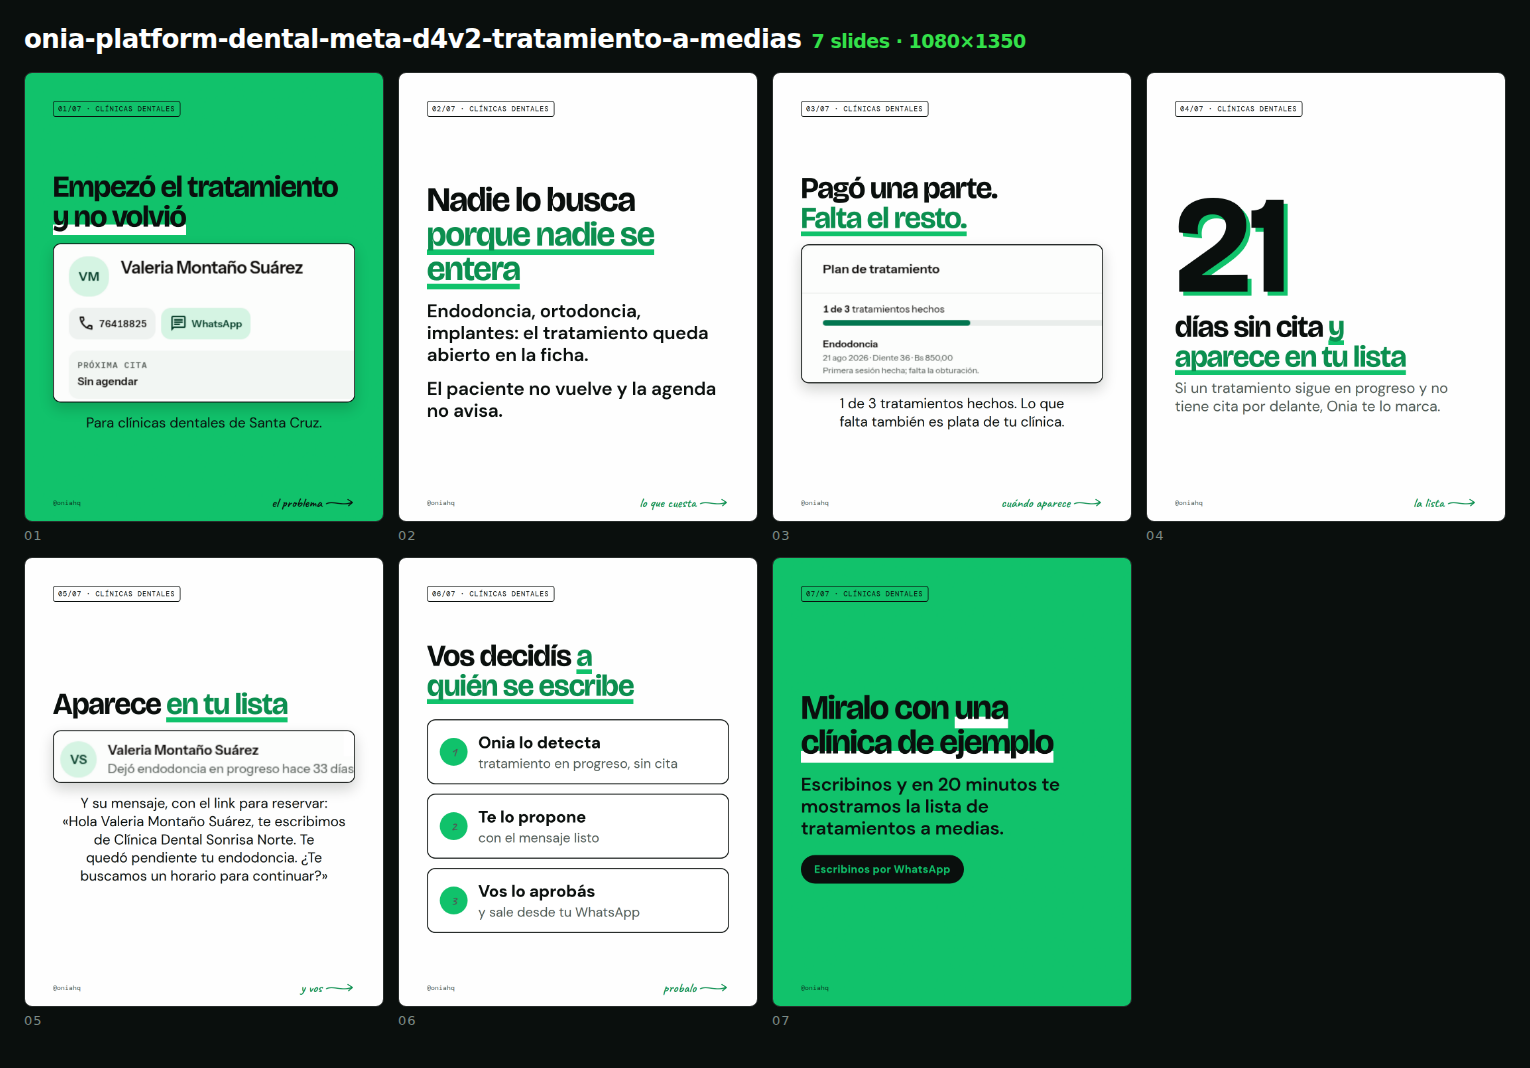
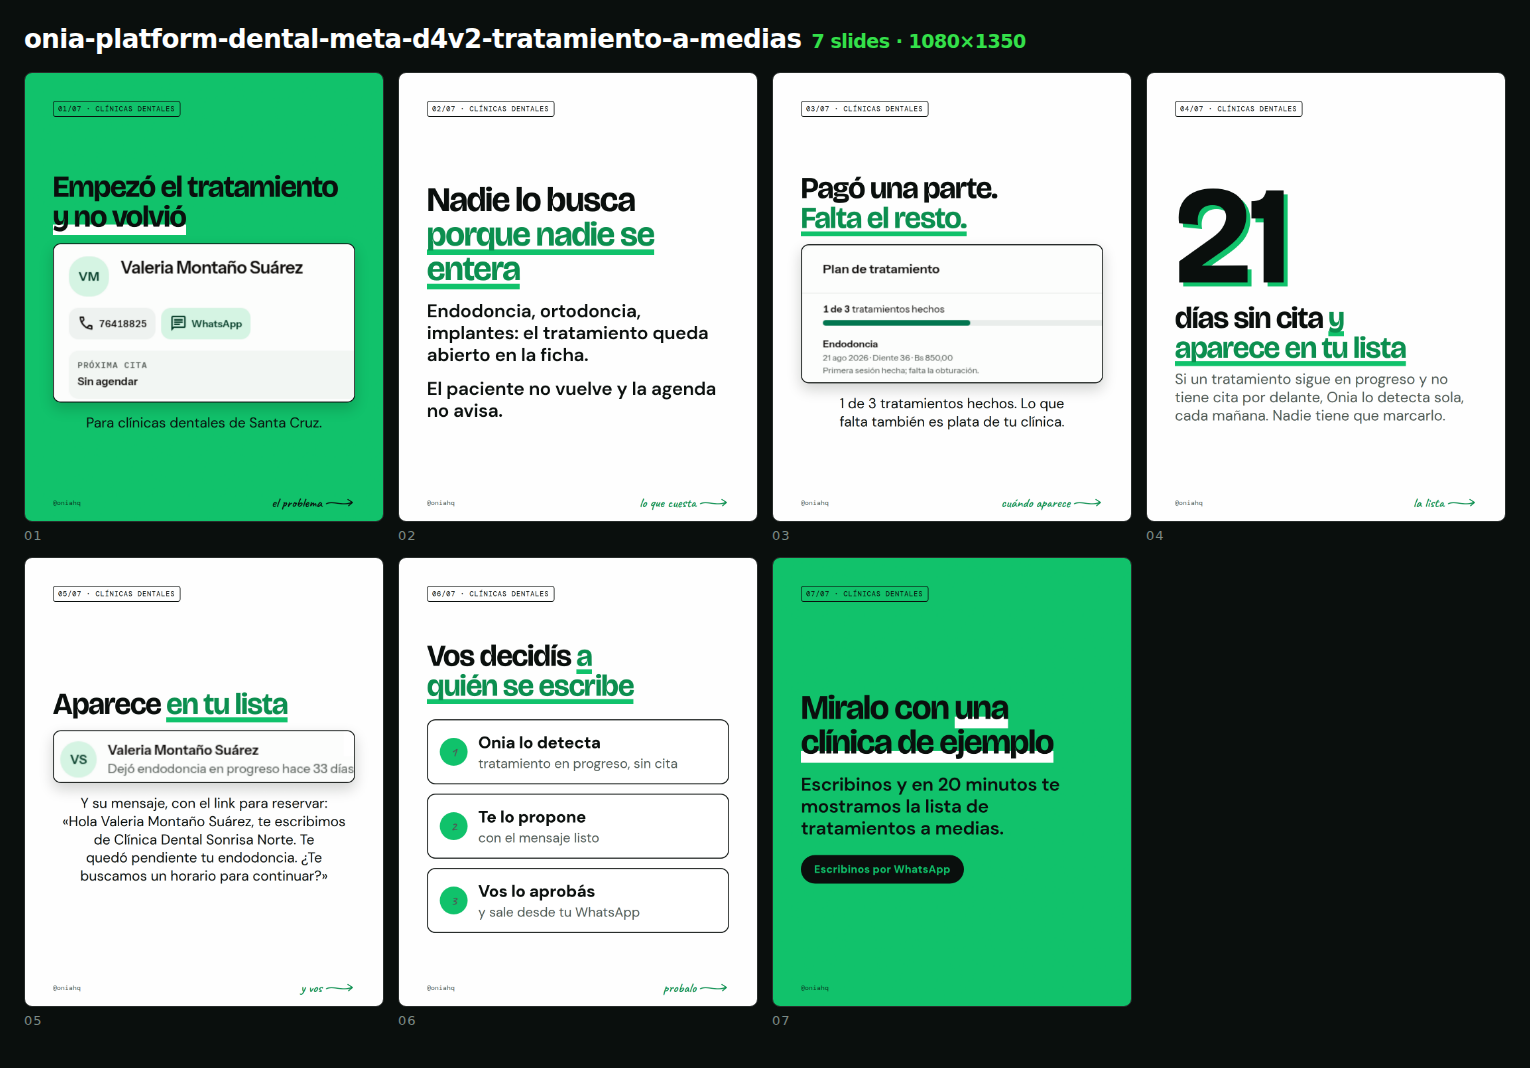
feat(ventas): D4 dice que Onia detecta sola el tratamiento a medias, cada mañana
Lo que la madre vio adentro de Doctocliq (2-oct): allá el paciente «abandonado» lo marca una persona, y su
seguimiento está bloqueado incluso en el plan más caro. Ese es el diferencial de D4. Sin nombrar a nadie (la
venta no habla de la competencia), la lámina del 21 dice que Onia lo detecta sola cada mañana y que nadie tiene
que marcarlo. Medido antes de escribirlo: el cron de agentes corre a las 07:00 de Bolivia y el log del VPS dice
OK el 1-oct. Queda en la tabla de frases verificadas de la skill.

Claude-Session: https://claude.ai/code/session_01JkUVtTYrjJ9xUywLXjYz5G

Changed region(s): [[0.768, 0.1545, 0.9523, 0.4017]]

diff --git a/.claude/skills/onia-ventas-pauta/SKILL.md b/.claude/skills/onia-ventas-pauta/SKILL.md
@@ -169,6 +169,7 @@ contestarle de memoria es la forma de quemarlo.
 | «La IA redacta el mensaje de confirmar, recuperar, cobrar, seguir o reprogramar» | ✅, desde **Crece**: 50 redacciones por mes en Crece, 150 en Profesional, 400 en Clínica | `agents-plantilla.ts` (`PLANTILLA_KINDS`) y `plan-catalogo.ts` (`agentsAiCallsPerMonth`). En producción `AGENTS_LLM=1`, con URL y clave cargadas |
 | «Vos lo aprobás; sin tu OK no se usa» | ✅ | Solo corre la `plantillaAprobada` |
 | «La IA nunca ve los datos de tus pacientes» | ✅ | Recibe solo el tipo de agente, el nombre del negocio y el rubro |
+| «Cada mañana» / «lo detecta sola» | ✅ | Los agentes corren a las 11:00 UTC (07:00 en Bolivia) con el cron `0 11 * * *` del VPS; el log `/var/log/onia-agents-cron.log` dice «OK» el 1-oct. El tratamiento a medias va dentro del Recall |
 | «Con tu tono» / «la editás» | ❌ | Escribe en el tono del rubro. El dueño solo puede **aprobarla**: no hay edición en `/agents` |
 | «La IA escribe el mensaje del tratamiento a medias» | ❌ | `buildTratamientoAMediasMessage` es un texto fijo |
 | «Preguntá por tu negocio» es IA | ❌ | Son 30 temas escritos a mano, sin modelo (`BarraAsistente.tsx`) |
